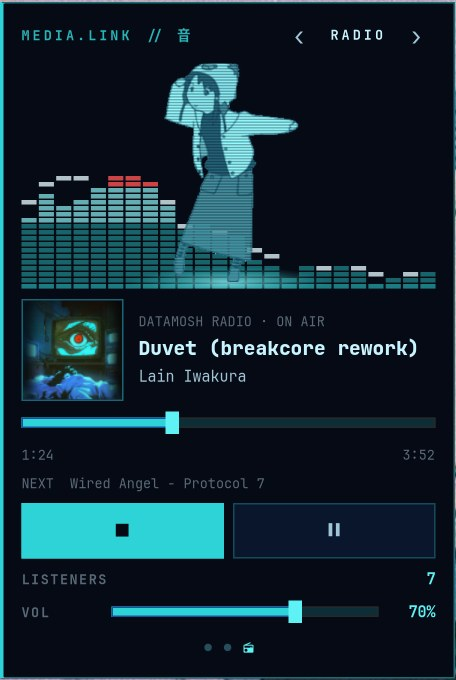
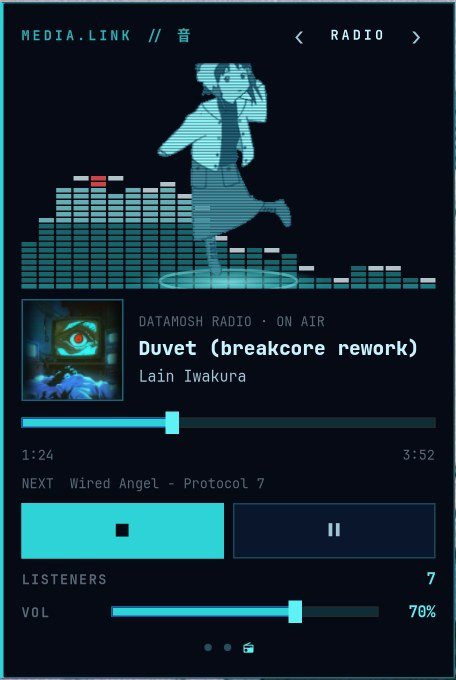
Radio page: Lain reacts to the beat (spectral-flux onset detection), shock wave on the floor
The old "bass energy" barely moved: the bass is normalised together with the loud mids. spectrum.py now
detects beats from the spectral flux of the low and mid bands (tuned on real breakcore: ~2.4 a second,
2.5 measured live) and exposes beats/kick; the radio page answers each with a jump, a stretch, a glow
and a ring running over the floor.

Changed region(s): [[0.0307, 0.0926, 0.9518, 0.4324]]

diff --git a/home/.config/gits-widgets/panel.py b/home/.config/gits-widgets/panel.py
@@ -947,7 +947,8 @@ class RadioPage(ArtMixin, Gtk.Box):
         self.demo_t = 0.0
         self.spec = None
         self.dance, self.phase, self.energy = [], 0.0, 0.0
-        self.pulse, self.bass_avg, self.t = 0.0, 0.0, 0.0   # a beat "kick" (1 -> 0), the slow average of the bass, the dance clock
+        self.pulse, self.t = 0.0, 0.0   # a beat "kick" (1 -> 0) and the dance clock
+        self.seen_beats, self.rings = 0, []   # beats already answered; the shock waves running over the floor (birth time, strength)
         if StreamSpectrum is not None and not DEMO:
             self.spec = StreamSpectrum(os.path.join(self.RUN, "mpv.pid"))
             self.spec.start()
@@ -1173,20 +1174,27 @@ class RadioPage(ArtMixin, Gtk.Box):
             moving = moving or lv > 0.01 or self.peak[i] > 0.01
         bass = sum(self.level[:8]) / 8
         self.energy = self.energy + (bass - self.energy) * (0.5 if bass > self.energy else 0.15)
-        self.bass_avg += (bass - self.bass_avg) * 0.08
-        if bass - self.bass_avg > 0.09 and self.pulse < 0.35:   # the bass jumps above its own average: a beat
-            self.pulse = 1.0
+        if self.spec is not None and self.spec.beats != self.seen_beats:   # the spectrum thread heard a beat
+            self.seen_beats = self.spec.beats
+            self._kick(self.spec.kick)
+        elif DEMO and int(self.t / 0.42) != int((self.t - 0.033) / 0.42) and self.running:   # the demo has a steady made-up beat
+            self._kick(0.8)
         self.pulse *= 0.86
         if self.running and not self.paused and self.dance:
             self.t += 0.033
             self.phase += 0.033 * self.SPEED * min(30.0, 10.0 + 16.0 * self.energy + 12.0 * self.pulse)   # 10 frames a second at rest, up to 30 on a loud beat
             if os.environ.get("GITS_PANEL_DEBUG") and int(self.t * 30) % 30 == 0:
-                open(os.environ["GITS_PANEL_DEBUG"], "a").write(f"dance phase={self.phase:.1f} energy={self.energy:.2f} pulse={self.pulse:.2f}\n")
+                open(os.environ["GITS_PANEL_DEBUG"], "a").write(f"dance phase={self.phase:.1f} energy={self.energy:.2f} beats={self.seen_beats}\n")
         self.da.queue_draw()
         if not moving and not self.running:
             self.fast = None
             return False
         return True
+
+    def _kick(self, strength):
+        self.pulse = max(self.pulse, 0.6 + 0.4 * strength)
+        self.rings.append((time.monotonic(), strength))
+        del self.rings[:-4]
 
     def _draw(self, area, cr, w, h):
         n = len(self.level)
@@ -1217,8 +1225,8 @@ class RadioPage(ArtMixin, Gtk.Box):
             return
         frame = self.dance[int(self.phase) % len(self.dance)]
         fw, fh = frame.get_width() / 2, frame.get_height() / 2
-        sx, sy = 1 - 0.035 * self.pulse, 1 + 0.06 * self.pulse                     # stretches up on every beat
-        hop = 6 * self.energy + 13 * self.pulse                                    # and jumps
+        sx, sy = 1 - 0.04 * self.pulse, 1 + 0.08 * self.pulse                      # stretches up on every beat
+        hop = 3 * self.energy + 17 * self.pulse                                    # and jumps
         sway = 6 * math.sin(self.t * 2.4) * (0.35 + self.energy)                   # and rocks from side to side
         x, y = (w - fw * sx) / 2 + sway, h - fh * sy - hop
         alpha = 1.0 if self.running else 0.3
@@ -1233,6 +1241,19 @@ class RadioPage(ArtMixin, Gtk.Box):
         cr.arc(0, 0, 66, 0, 2 * math.pi)
         cr.fill()
         cr.restore()
+        now = time.monotonic()
+        for born, st in self.rings:   # a shock wave runs over the floor on every beat
+            age = (now - born) / 0.5
+            if age >= 1:
+                continue
+            cr.save()
+            cr.translate(w / 2, h - 5)
+            cr.scale(1, 0.16)
+            cr.arc(0, 0, 14 + 96 * age, 0, 2 * math.pi)
+            cr.restore()   # the path stays an ellipse, the stroke below has a uniform width
+            cr.set_source_rgba(*self.CYB, 0.7 * (1 - age) * (0.55 + 0.45 * st))
+            cr.set_line_width(1.8)
+            cr.stroke()
         cr.save()
         cr.translate(x, y)
         cr.scale(0.5 * sx, 0.5 * sy)

diff --git a/home/.config/gits-widgets/spectrum.py b/home/.config/gits-widgets/spectrum.py
@@ -3,6 +3,7 @@
     tap = StreamSpectrum(pid_file)      # pid_file holds the pid of the mpv (gits-radio writes it)
     tap.start()                         # a daemon thread: finds mpv's sink input with pactl, records it with `parec --monitor-stream`
     tap.bands                           # BANDS floats 0..1, low to high pitch; all zero while nothing plays
+    tap.beats, tap.kick                 # count of detected beats (it goes up by one per beat) and the strength 0.4..1 of the last one
     tap.stop()                          # kills parec (call it when the popup closes)
 
 The stream is not there for a moment after mpv starts, and it vanishes when mpv stops: the thread keeps looking, so the popup can
@@ -51,6 +52,7 @@ class StreamSpectrum(threading.Thread):
         self.pid_file = pid_file
         self.bands = [0.0] * self.BANDS
         self.error = ""
+        self.beats, self.kick = 0, 0.0
         self.proc = None
         self._halt = threading.Event()
         edges = np.geomspace(LOW, HIGH, self.BANDS + 1)
@@ -105,6 +107,9 @@ class StreamSpectrum(threading.Thread):
         raw = b""
         shown = np.zeros(self.BANDS)
         ref = 1.0
+        prev = np.zeros(self.BANDS)
+        fluxes = []            # recent spectral flux: the sum of the rises of the low and mid bands from one 50 ms step to the next
+        last_beat = 0.0
         last = time.monotonic()
         try:
             while not self._halt.is_set() and proc.poll() is None and self._pid() == pid:
@@ -121,7 +126,18 @@ class StreamSpectrum(threading.Thread):
                     mag = np.abs(np.fft.rfft(buf * self.win))
                     level = np.array([mag[a:b].max() for a, b in zip(self.lo, self.hi)]) * self.tilt
                     ref = max(ref * 0.985, level.max(), 1.0)                # automatic gain, half-life ~2 s
-                    shown = np.maximum(np.clip(level / ref, 0, 1) ** 0.65, shown * 0.80)
+                    fresh = np.clip(level / ref, 0, 1) ** 0.65
+                    shown = np.maximum(fresh, shown * 0.80)
+                    flux = float(np.maximum(fresh[:12] - prev[:12], 0).sum())
+                    prev = fresh
+                    if len(fluxes) >= 4:                            # a beat = the flux jumps above its own recent mean + 1 sigma (tuned on breakcore: ~2.4 a second)
+                        m, sd = float(np.mean(fluxes)), float(np.std(fluxes))
+                        if flux > m + sd and flux > 0.12 and now - last_beat > 0.15:
+                            self.kick = min(1.0, 0.4 + 0.6 * (flux - m) / max(3 * sd, 0.2))
+                            self.beats += 1
+                            last_beat = now
+                    fluxes.append(flux)
+                    del fluxes[:-30]                                # the last 1.5 s
                     last = now
                 elif now - last > 0.15:                                      # nothing arrives (paused): let the bars sink
                     shown = shown * 0.85
